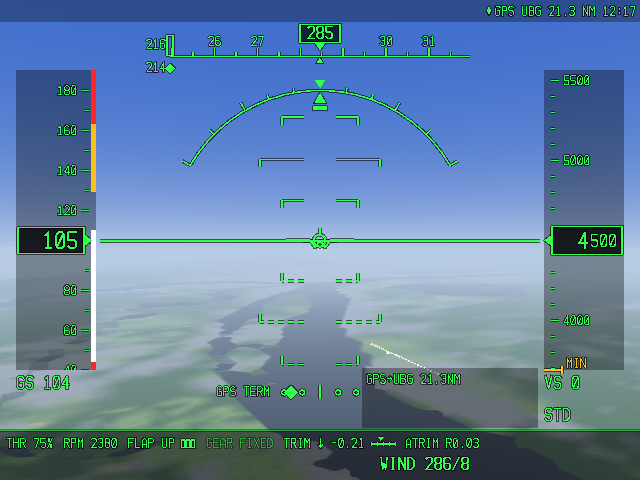
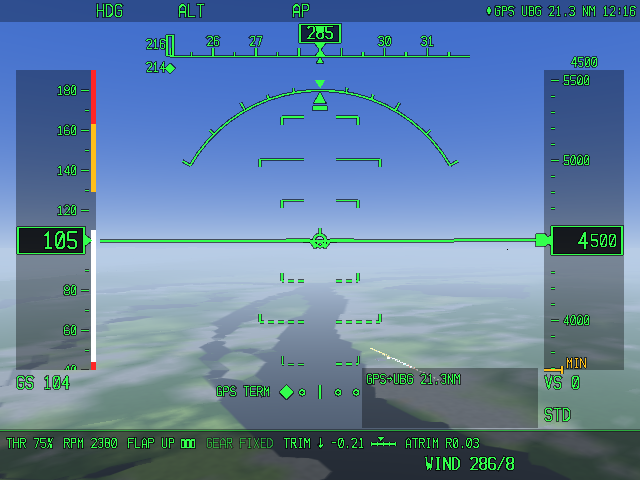
docs: newer README screenshots and a gallery
Owner, 2026-11-08: "update the readme with newer up to date screenshots".
The two README screenshots were from 1.0 (2026-10-21). Both are re-shot in
the current build at the RG40XXH's 640 x 480, and a gallery adds the ILS
at KOTH with the flight director, the chase view, the moving map, a night
final at KPDX and the flight log. The features list names what came
after 1.0, and "More regions" no longer says releases carry no pack (from
1.2.0 they attach pdx_oth).

Claude-Session: https://claude.ai/code/session_01CnXS25zp6P4hvtrDTopH9s

diff --git a/README.md b/README.md
@@ -15,8 +15,23 @@ Northwest: terrain streamed from Portland (KPDX) to the coast at North Bend (KOT
 - **FAA approaches, fixes and airways**, plus a synthesized ILS for any runway.
 - **Terrain streamed for the KPDX to KOTH region** in the release data pack (Copernicus DEM and
   ESA WorldCover).
-- Flight plans built in game or loaded from X-Plane `.fms` files, a moving map, autopilot and a
-  full HUD.
+- Flight plans built in game or loaded from X-Plane `.fms` files, with SIDs, STARs and approach
+  transitions, a moving map, an autopilot with flight director and a full HUD.
+- A chase view, cloud layers, night lighting, GPWS voice callouts, fuel planning and a flight log
+  of every flight you fly.
+
+## Screenshots
+
+All taken in the game at the RG40XXH's 640 × 480 (1.2.3, desktop build, the `pdx_oth` pack).
+
+| | |
+|---|---|
+| ![ILS 05 at North Bend with the flight director](screenshots/ils-koth.png) | ![Chase view on final to North Bend](screenshots/chase-final-koth.png) |
+| ILS 05 at North Bend (KOTH): localizer and glideslope captured, the flight director cue on the flight path marker | The chase view on final to KOTH, with the flight data kept on screen |
+| ![The moving map with the KPDX to KOTH plan](screenshots/map-kpdx-koth.png) | ![Night final to Portland](screenshots/night-final-kpdx.png) |
+| The moving map at 40 NM with the KPDX to KOTH plan | Night final to runway 28L at Portland, approach and runway lights |
+| ![The flight log](screenshots/flight-log.png) | ![On runway 28L at KPDX](screenshots/ground-kpdx.png) |
+| The flight log on the main menu (example flights) | The takeoff roll on runway 28L at Portland |
 
 ## Supported device
 
@@ -59,8 +74,6 @@ binary, that `libs.aarch64/libJSBSim.so.1` is a regular file, and that `data/ter
 `data/nav/nav.ini` are present. Details: [flightsim/INSTALL.md](flightsim/INSTALL.md) and
 [flightsim/tools/sdcard/README.md](flightsim/tools/sdcard/README.md).
 
-![On runway 28L at KPDX](screenshots/ground-kpdx.png)
-
 ## Flight plans
 
 Put X-Plane `.fms` files (version 1100) in `flightsim/data/plans/`. SimBrief and Little Navmap
@@ -73,8 +86,9 @@ game (`KPDX-KOTH.fms`, `KOTH-KPDX.fms`, `XTST-pattern.fms`). See
 
 ## More regions
 
-Tagged releases do not include a terrain pack. Build one and keep its `ATTRIBUTION.txt`
-(Copernicus DEM is free for worldwide use with that notice; ESA WorldCover is CC BY 4.0).
+From 1.2.0 a tagged release attaches the Pacific Northwest pack (`pdx_oth`). For any other region,
+build a pack and keep its `ATTRIBUTION.txt` (Copernicus DEM is free for worldwide use with that
+notice; ESA WorldCover is CC BY 4.0).
 
 - Actions tab, workflow **datapack**. Presets: `pdx_oth`, `bayarea`, `mthood`, `tam_diablo`.
   Or set **bbox** to `west,south,east,north`. Download the artifact (kept 30 days), unzip once,
